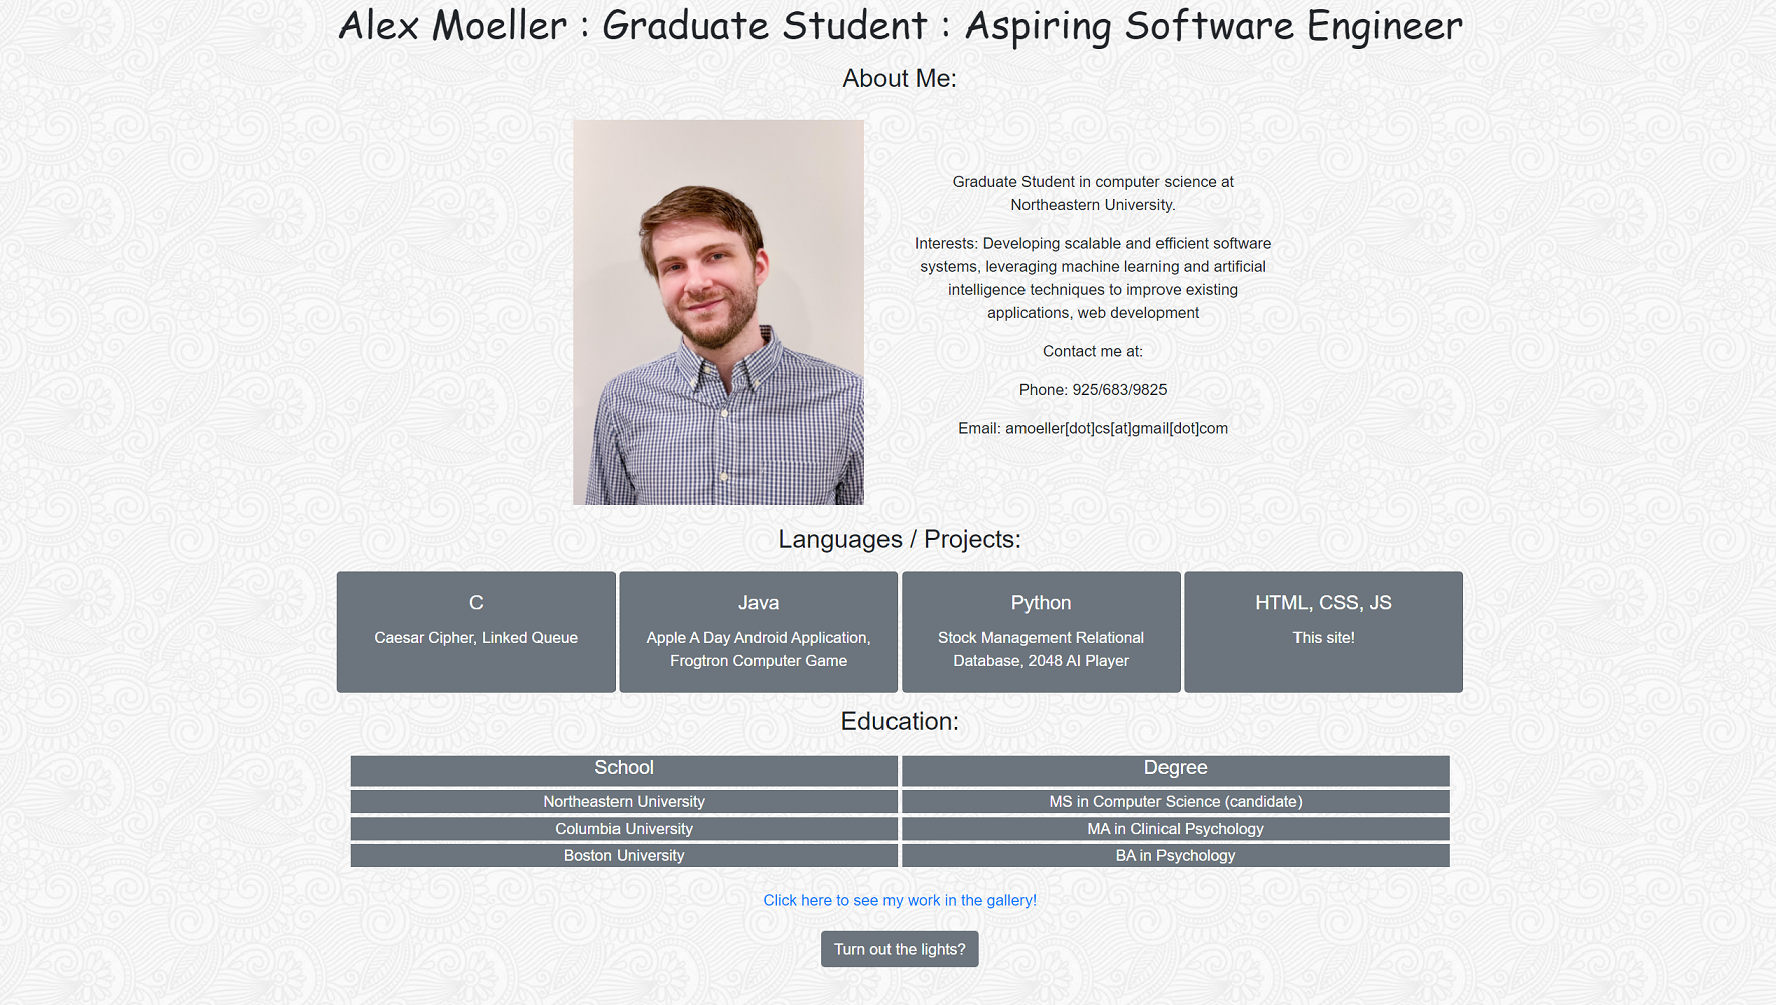
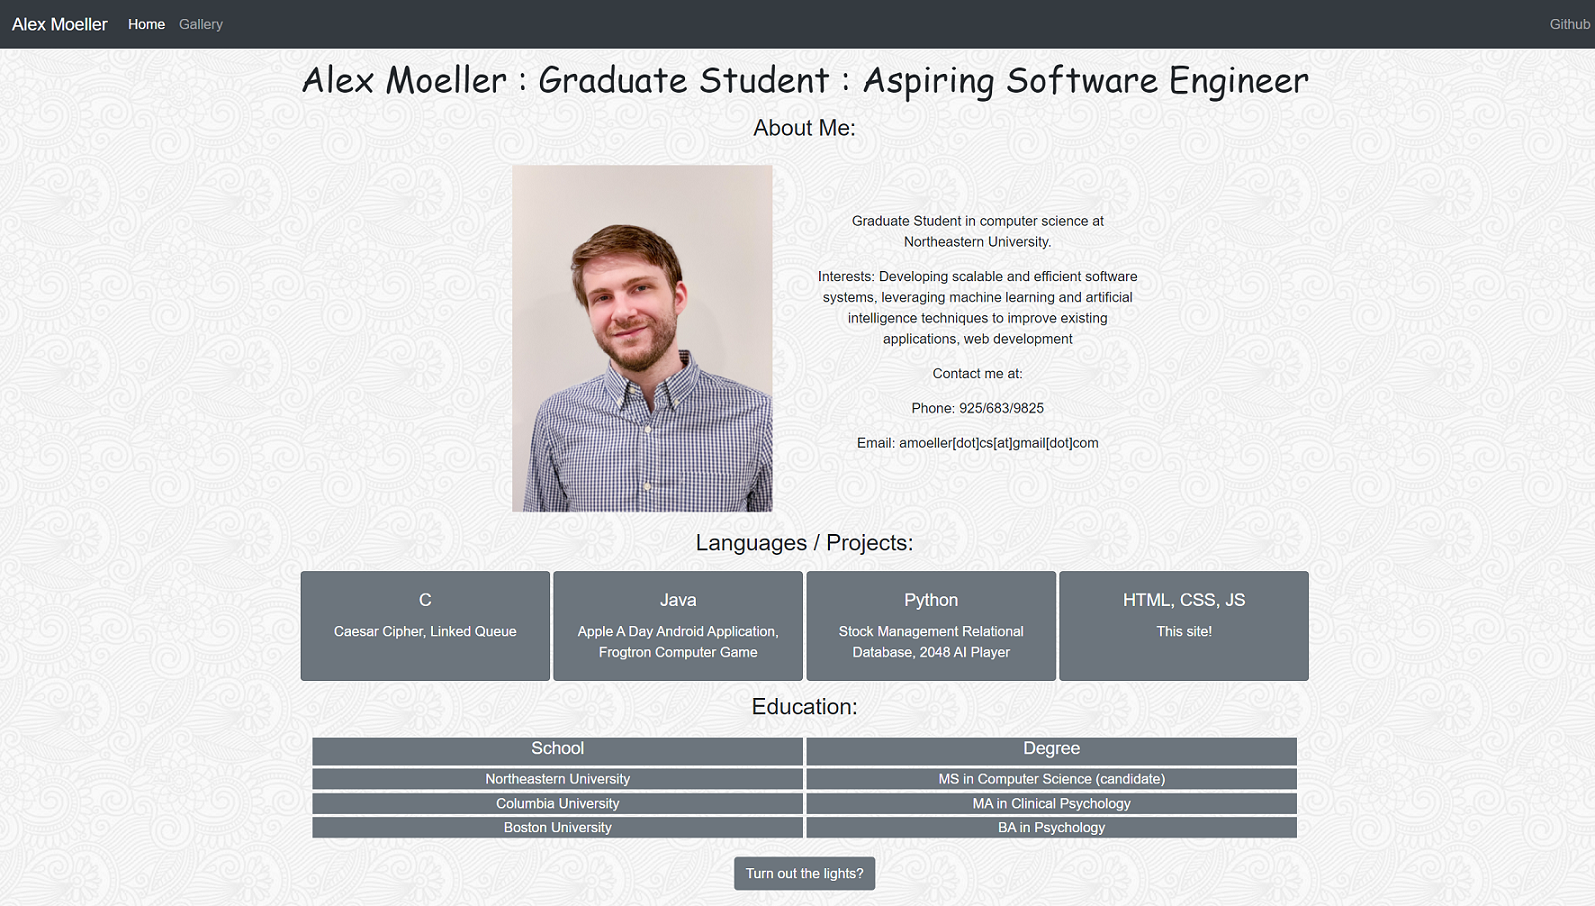
Add files via upload

Changed region(s): [[0.0, 0.0, 1.0, 0.989]]

diff --git a/index.html b/index.html
@@ -20,6 +20,28 @@
     </head>
     <body>
         <div>
+            <nav class="navbar navbar-expand-lg navbar-dark bg-dark">
+                <a class="navbar-brand" href="#">Alex Moeller</a>
+                <div class="collapse navbar-collapse">
+                    <div class="navbar-nav">
+                        <a class="nav-link active" href="#"
+                            >Home<span class="sr-only">(current)</span></a
+                        >
+                        <a class="nav-link" href="gallery.html">Gallery</a>
+                    </div>
+                </div>
+                <div class="collapse navbar-collapse justify-content-end">
+                    <div class="navbar-nav">
+                        <a
+                            class="nav-link"
+                            href="https://github.com/amoeller-cs"
+                            >Github</a
+                        >
+                    </div>
+                </div>
+            </nav>
+        </div>
+        <div>
             <h1>
                 Alex Moeller : Graduate Student : Aspiring Software Engineer
             </h1>
@@ -120,11 +142,6 @@
                         </div>
                     </div>
                 </div>
-            </div>
-            <div class="link">
-                <a href="gallery.html"
-                    >Click here to see my work in the gallery!</a
-                >
             </div>
             <div class="but">
                 <button id="darkMode" class="btn btn-secondary">

diff --git a/gallery.html b/gallery.html
@@ -18,10 +18,29 @@
         />
     </head>
     <body>
+        <div>
+            <nav class="navbar navbar-expand-lg navbar-dark bg-dark">
+                <a class="navbar-brand" href="#">Alex Moeller</a>
+                <div class="collapse navbar-collapse">
+                    <div class="navbar-nav">
+                        <a class="nav-link" href="index.html">Home</a>
+                        <a class="nav-link active" href="#"
+                            >Gallery<span class="sr-only">(current)</span></a
+                        >
+                    </div>
+                </div>
+                <div class="collapse navbar-collapse justify-content-end">
+                    <div class="navbar-nav">
+                        <a
+                            class="nav-link"
+                            href="https://github.com/amoeller-cs"
+                            >Github</a
+                        >
+                    </div>
+                </div>
+            </nav>
+        </div>
         <div class="slideshow">
-            <div>
-                <a href="index.html">Click here to return to the home page!</a>
-            </div>
             <div>
                 <button id="next" class="btn btn-secondary">Next</button>
             </div>

diff --git a/css/index.css b/css/index.css
@@ -23,6 +23,11 @@ h4 {
     font-size: 20px;
 }
 
+.navbar {
+    font-family: "Helvetica", sans-serif;
+    margin-bottom: 10px;
+}
+
 .me {
     vertical-align: middle;
     margin: 0px 50px;
@@ -63,15 +68,10 @@ h4 {
     text-align: center;
 }
 
-.link {
-    text-align: center;
-    padding: 10px;
-    padding-top: 20px;
-}
-
 .but {
     text-align: center;
     padding: 10px;
+    margin: 10px;
 }
 
 .dark-mode {

diff --git a/css/gallery.css b/css/gallery.css
@@ -10,6 +10,11 @@ img {
     max-height: 800px;
 }
 
+.navbar {
+    font-family: "Helvetica", sans-serif;
+    margin-bottom: 10px;
+}
+
 .slideshow > div {
     text-align: center;
     padding: 5px;
